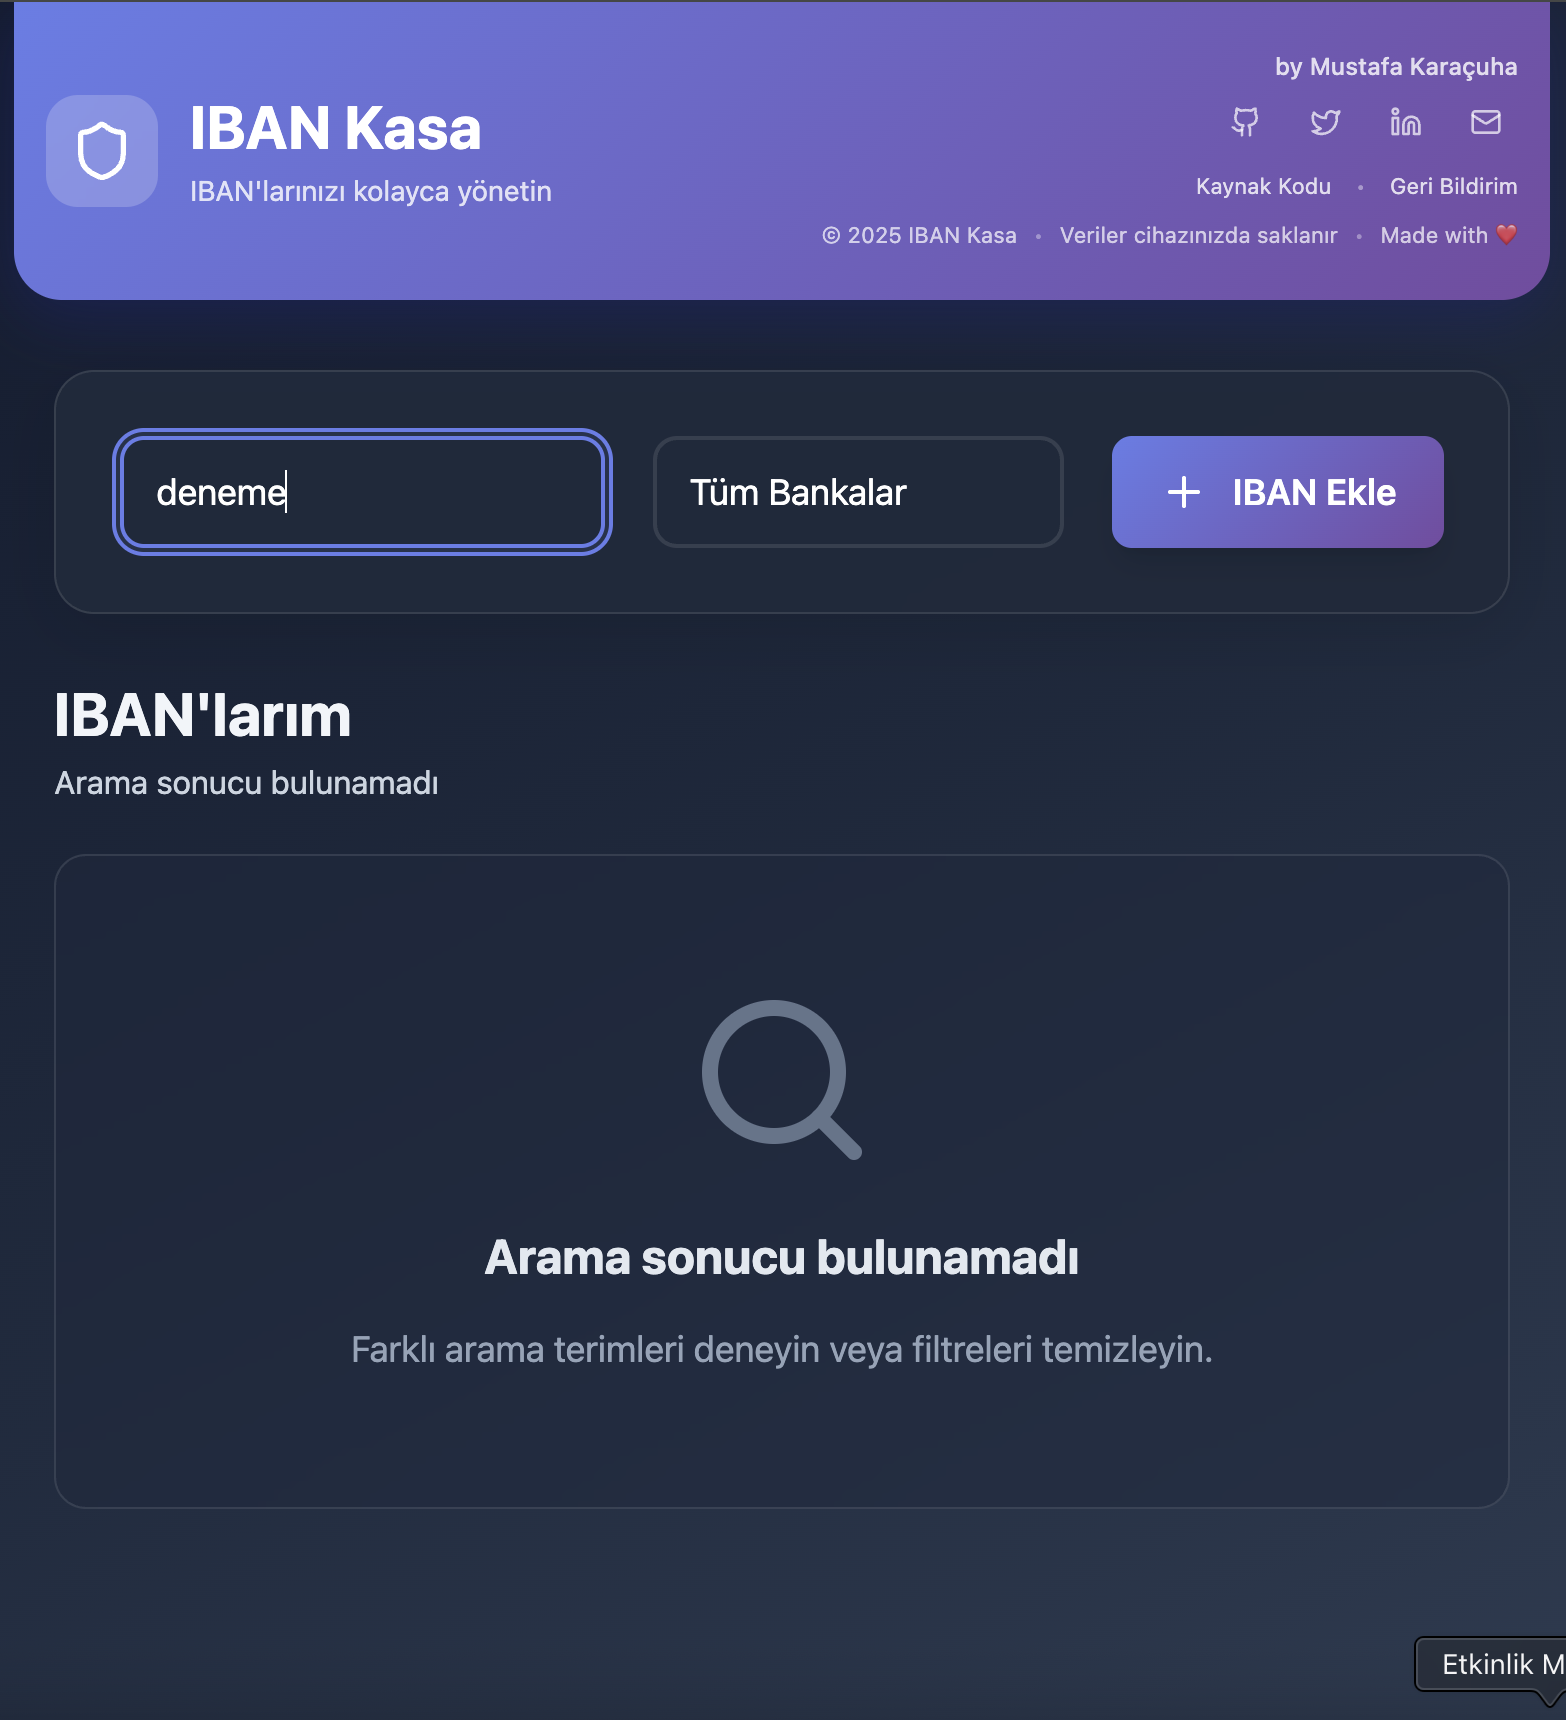
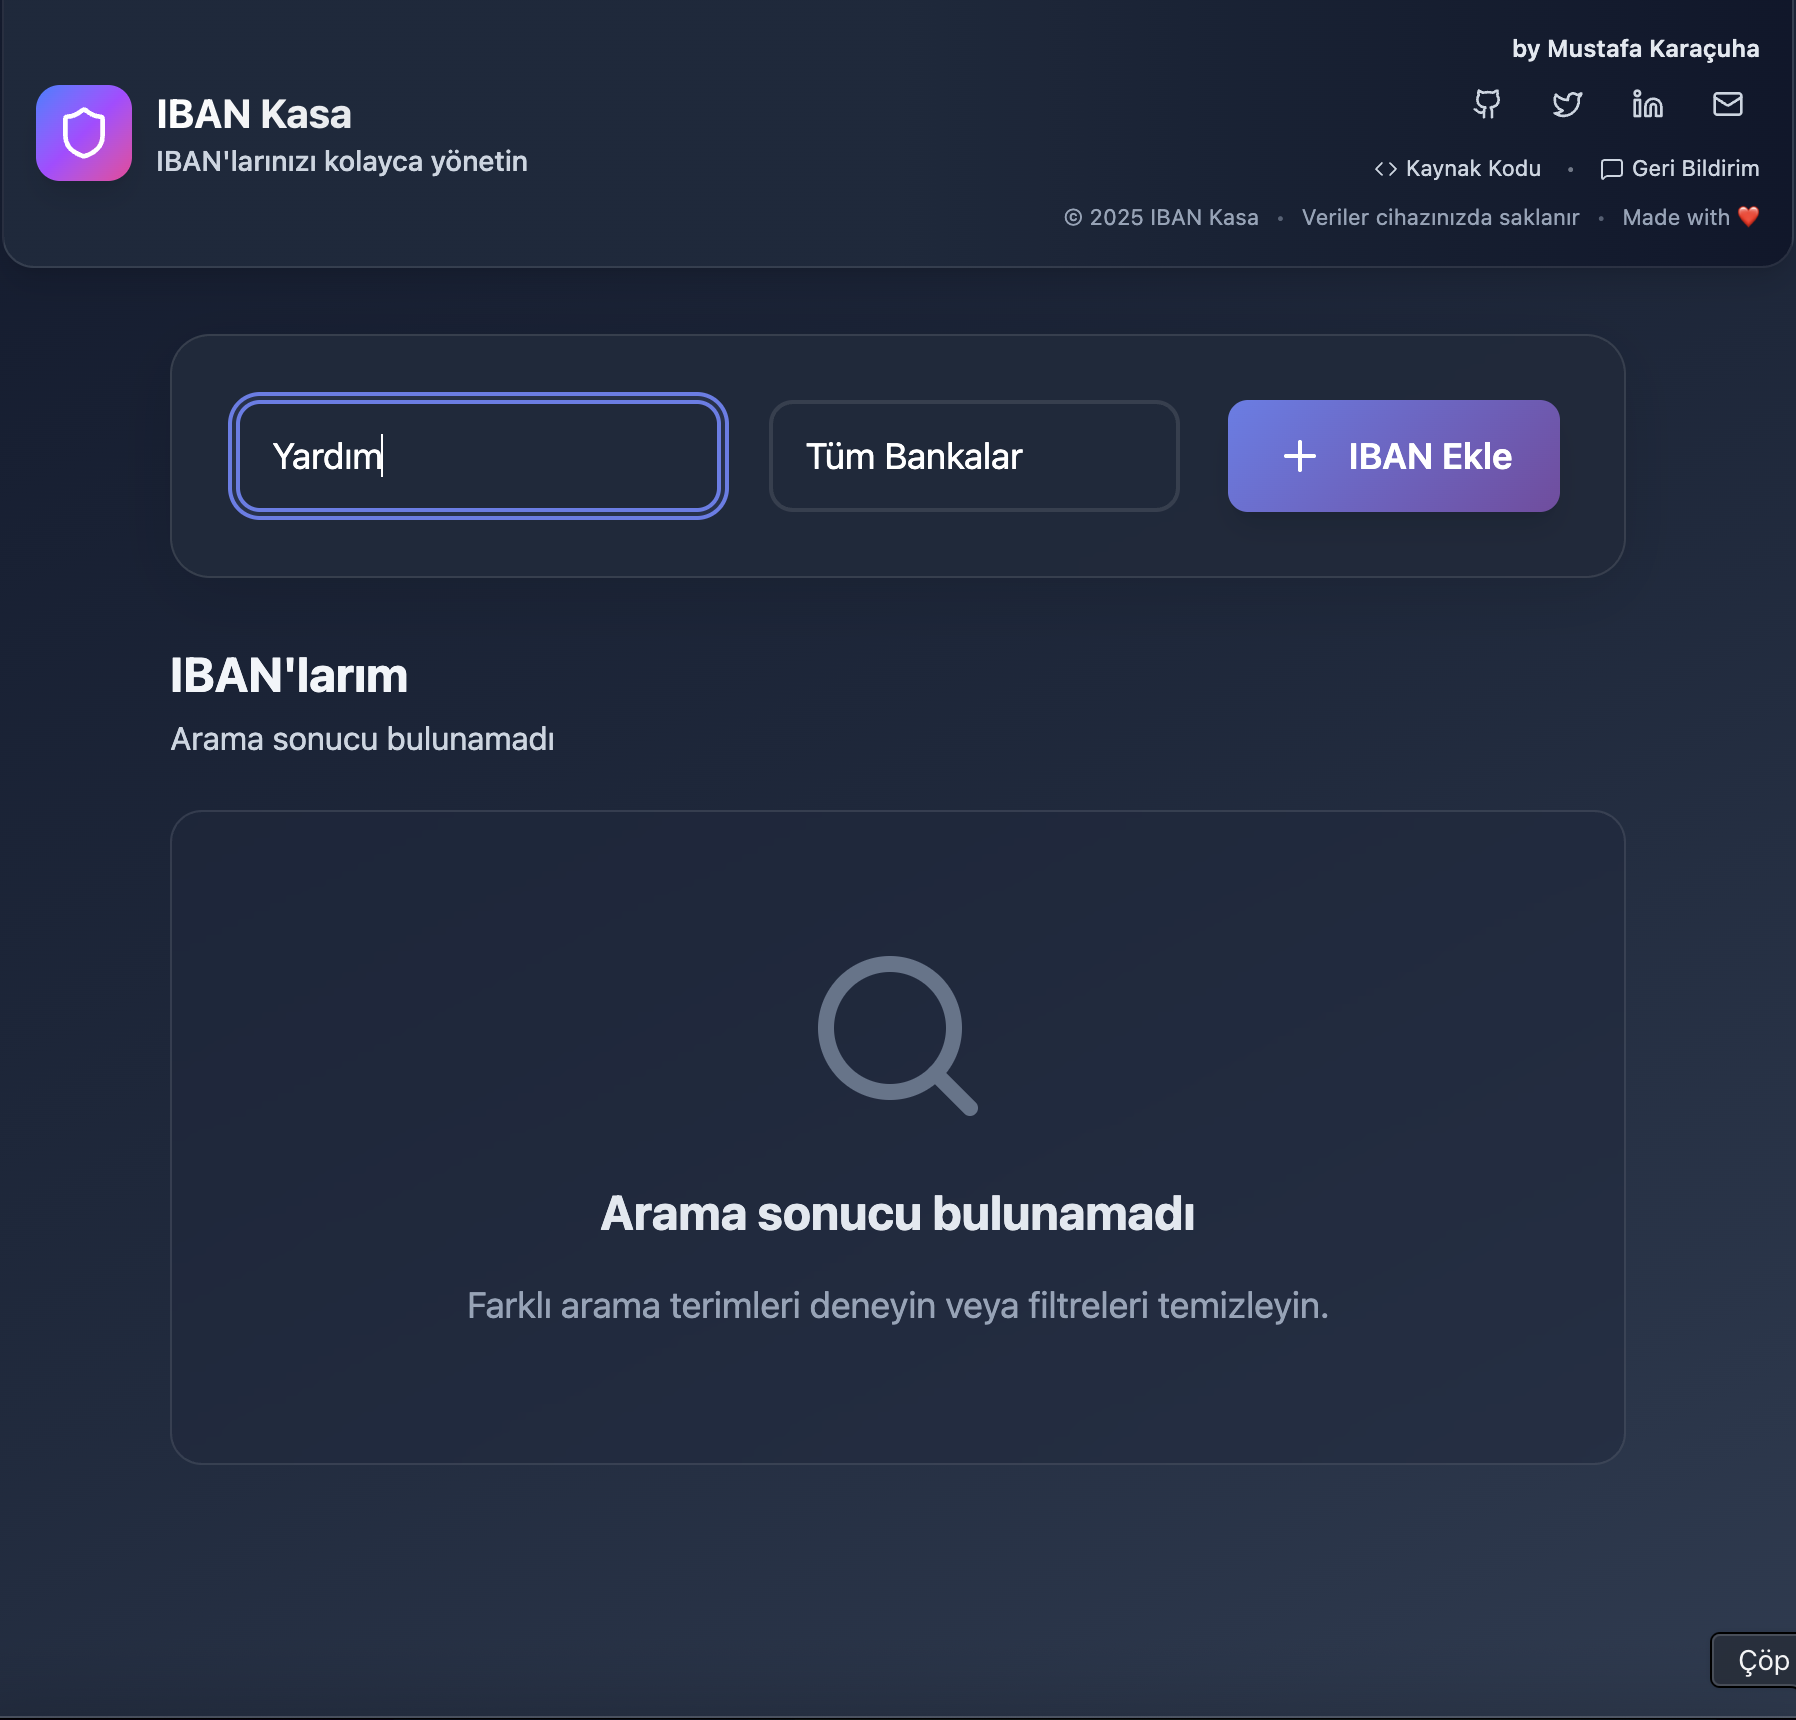
update 7 files edit

diff --git a/src/components/Header.jsx b/src/components/Header.jsx
@@ -1,39 +1,40 @@
-import { Shield, Github, Twitter, Linkedin, Mail } from "lucide-react";
+import { Shield, Sparkles, Github, Twitter, Linkedin, Mail, Code, MessageSquare } from "lucide-react";
 
 function Header() {
   return (
     <div className="fixed top-0 left-0 right-0 z-50 bg-transparent">
-      <div className="w-full md:max-w-4xl mx-0 sm:mx-0 md:mx-auto bg-gradient-primary rounded-none md:rounded-br-3xl md:rounded-bl-3xl shadow-modern overflow-hidden px-3 sm:px-4 md:px-4 py-3 sm:py-4 md:py-6 mobile-header">
+      <div className="w-full md:max-w-4xl mx-0 sm:mx-0 md:mx-auto bg-gradient-to-r from-white via-gray-50 to-white dark:from-slate-800 dark:via-slate-800 dark:to-slate-900 rounded-none md:rounded-br-2xl md:rounded-bl-2xl shadow-lg border border-gray-200 dark:border-slate-700 overflow-hidden px-4 py-4">
         <div className="flex items-center justify-between">
-          <div className="flex items-center gap-3 md:gap-4">
-            <div className="p-2 md:p-3 bg-white/20 rounded-xl md:rounded-2xl backdrop-blur-sm">
-              <Shield className="w-6 h-6 md:w-8 md:h-8 text-white" />
+          {/* Logo ve başlık */}
+          <div className="flex items-center gap-3">
+            <div className="relative">
+              <div className="w-12 h-12 bg-gradient-to-br from-blue-500 via-purple-500 to-pink-500 rounded-xl flex items-center justify-center shadow-lg">
+                <Shield className="w-7 h-7 text-white" />
+              </div>
+              
             </div>
             <div>
-              <h1 className="text-xl md:text-3xl font-bold text-white mb-1">
+              <h1 className="text-xl font-bold bg-gradient-to-r from-gray-900 to-gray-700 dark:from-white dark:to-gray-300 bg-clip-text text-transparent">
                 IBAN Kasa
               </h1>
-              <p className="text-white/80 text-xs md:text-sm flex items-center gap-1 md:gap-2">
-                <span>IBAN'larınızı kolayca yönetin</span>
+              <p className="text-sm text-gray-600 dark:text-gray-400 font-medium">
+                IBAN'larınızı kolayca yönetin
               </p>
             </div>
           </div>
 
-          {/* Mobil sağ alan boş bırakıldı */}
-          <div className="flex md:hidden items-center gap-2" />
-
           {/* Sağ taraf - Sosyal medya ve geliştirici (sadece desktop) */}
           <div className="hidden md:flex flex-col items-end gap-1">
             {/* Geliştirici */}
-            <div className="text-xs text-white/80">
-              <span className="font-medium">by Mustafa Karaçuha</span>
+            <div className="text-xs text-gray-700 dark:text-gray-300">
+              <span className="font-semibold">by Mustafa Karaçuha</span>
             </div>
             <div className="flex items-center justify-end gap-1 md:gap-2">
               <a
                 href="https://github.com/mustafakaracuha"
                 target="_blank"
                 rel="noopener noreferrer"
-                className="p-1.5 md:p-2 text-white/70 hover:text-white hover:bg-white/20 rounded-lg transition-all duration-300"
+                className="p-1.5 md:p-2 text-gray-600 dark:text-gray-400 hover:text-gray-900 dark:hover:text-white hover:bg-gray-100 dark:hover:bg-slate-700 rounded-lg transition-all duration-300"
                 title="GitHub"
               >
                 <Github className="w-3 h-3 md:w-4 md:h-4" />
@@ -42,7 +43,7 @@ function Header() {
                 href="https://twitter.com/muskaracuha"
                 target="_blank"
                 rel="noopener noreferrer"
-                className="p-1.5 md:p-2 text-white/70 hover:text-white hover:bg-white/20 rounded-lg transition-all duration-300"
+                className="p-1.5 md:p-2 text-gray-600 dark:text-gray-400 hover:text-gray-900 dark:hover:text-white hover:bg-gray-100 dark:hover:bg-slate-700 rounded-lg transition-all duration-300"
                 title="Twitter"
               >
                 <Twitter className="w-3 h-3 md:w-4 md:h-4" />
@@ -51,36 +52,42 @@ function Header() {
                 href="https://linkedin.com/in/mustafakaracuha"
                 target="_blank"
                 rel="noopener noreferrer"
-                className="p-1.5 md:p-2 text-white/70 hover:text-white hover:bg-white/20 rounded-lg transition-all duration-300"
+                className="p-1.5 md:p-2 text-gray-600 dark:text-gray-400 hover:text-gray-900 dark:hover:text-white hover:bg-gray-100 dark:hover:bg-slate-700 rounded-lg transition-all duration-300"
                 title="LinkedIn"
               >
                 <Linkedin className="w-3 h-3 md:w-4 md:h-4" />
               </a>
               <a
                 href="mailto:karacuhaa58@gmail.com"
-                className="p-1.5 md:p-2 text-white/70 hover:text-white hover:bg-white/20 rounded-lg transition-all duration-300"
+                className="p-1.5 md:p-2 text-gray-600 dark:text-gray-400 hover:text-gray-900 dark:hover:text-white hover:bg-gray-100 dark:hover:bg-slate-700 rounded-lg transition-all duration-300"
                 title="E-posta"
               >
                 <Mail className="w-3 h-3 md:w-4 md:h-4" />
               </a>
             </div>
             {/* Kaynak ve geri bildirim linkleri */}
-            <div className="hidden md:flex items-center justify-end gap-3 text-[11px] text-white/80 mt-1">
+            <div className="hidden md:flex items-center justify-end gap-3 text-[11px] text-gray-600 dark:text-gray-400 mt-1">
               <a
                 href="https://github.com/mustafakaracuha/iban-kasa"
                 target="_blank"
                 rel="noopener noreferrer"
-                className="hover:underline"
+                className="hover:text-gray-900 dark:hover:text-white hover:underline flex items-center gap-1"
               >
+                <Code className="w-3 h-3" />
                 Kaynak Kodu
               </a>
               <span className="opacity-50">•</span>
-              <a href="mailto:karacuhaa58@gmail.com" className="hover:underline">Geri Bildirim</a>
+              <a href="mailto:karacuhaa58@gmail.com" className="hover:text-gray-900 dark:hover:text-white hover:underline flex items-center gap-1">
+                <MessageSquare className="w-3 h-3" />
+                Geri Bildirim
+              </a>
             </div>
-            <div className="text-[11px] text-white/70 mt-1 flex items-center gap-2">
+            <div className="text-[11px] text-gray-500 dark:text-gray-500 mt-1 flex items-center gap-2">
               <span>© 2025 IBAN Kasa</span>
               <span className="opacity-50">•</span>
               <span>Veriler cihazınızda saklanır</span>
+              <span className="opacity-50">•</span>
+              <span>Made with ❤</span>
             </div>
           </div>
         </div>

diff --git a/src/components/IbanList.jsx b/src/components/IbanList.jsx
@@ -25,7 +25,7 @@ function IbanList({
         {/* IBAN'larım Başlığı */}
         <div className="flex items-center gap-3 mb-6">
           <div>
-            <h2 className="text-xl sm:text-2xl md:text-3xl font-bold text-gray-800 dark:text-gray-100">
+            <h2 className="text-lg sm:text-xl md:text-2xl font-bold text-gray-800 dark:text-gray-100">
               IBAN'larım
             </h2>
             <p className="text-sm sm:text-base text-gray-600 dark:text-gray-400 mt-1">
@@ -69,7 +69,7 @@ function IbanList({
       {/* IBAN'larım Başlığı */}
       <div className="flex items-center gap-3 mb-6">
         <div>
-          <h2 className="text-xl sm:text-2xl md:text-3xl font-bold text-gray-800 dark:text-gray-100">
+          <h2 className="text-xl sm:text-2xl md:text-2xl font-bold text-gray-800 dark:text-gray-100">
             IBAN'larım
           </h2>
           <p className="text-sm sm:text-base text-gray-500/70 dark:text-gray-400/70 mt-1">

diff --git a/src/components/SearchAndFilter.jsx b/src/components/SearchAndFilter.jsx
@@ -9,7 +9,7 @@ function SearchAndFilter({
   turkishBanks 
 }) {
   return (
-    <div className="card-modern p-4 sm:p-6 md:p-8 mb-4 sm:mb-6 md:mb-8 mobile-search-filter overflow-hidden w-full mt-6 md:mt-18">
+    <div className="card-modern p-4 sm:p-6 md:p-8 mb-4 sm:mb-6 md:mb-8 mobile-search-filter overflow-hidden w-full mt-6 md:mt-14">
       <div className="flex flex-col gap-3 sm:gap-4 md:gap-6 lg:flex-row">
         <div className="flex-1 relative">
           <input
